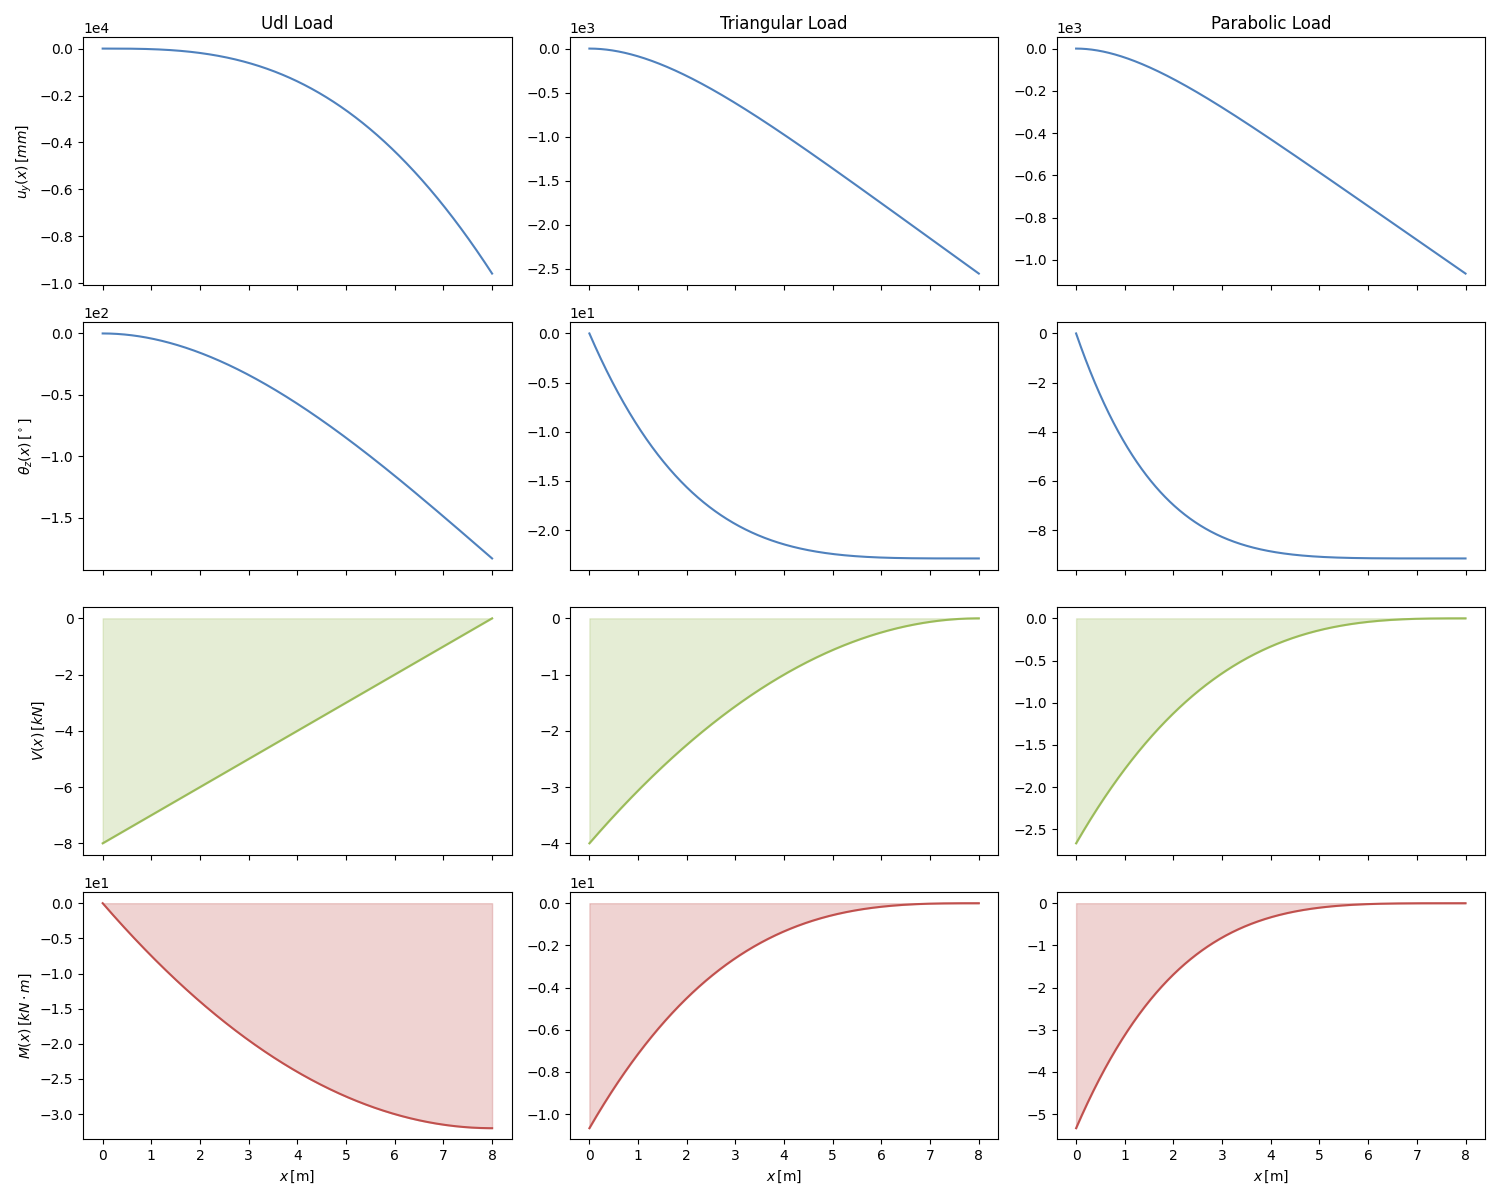
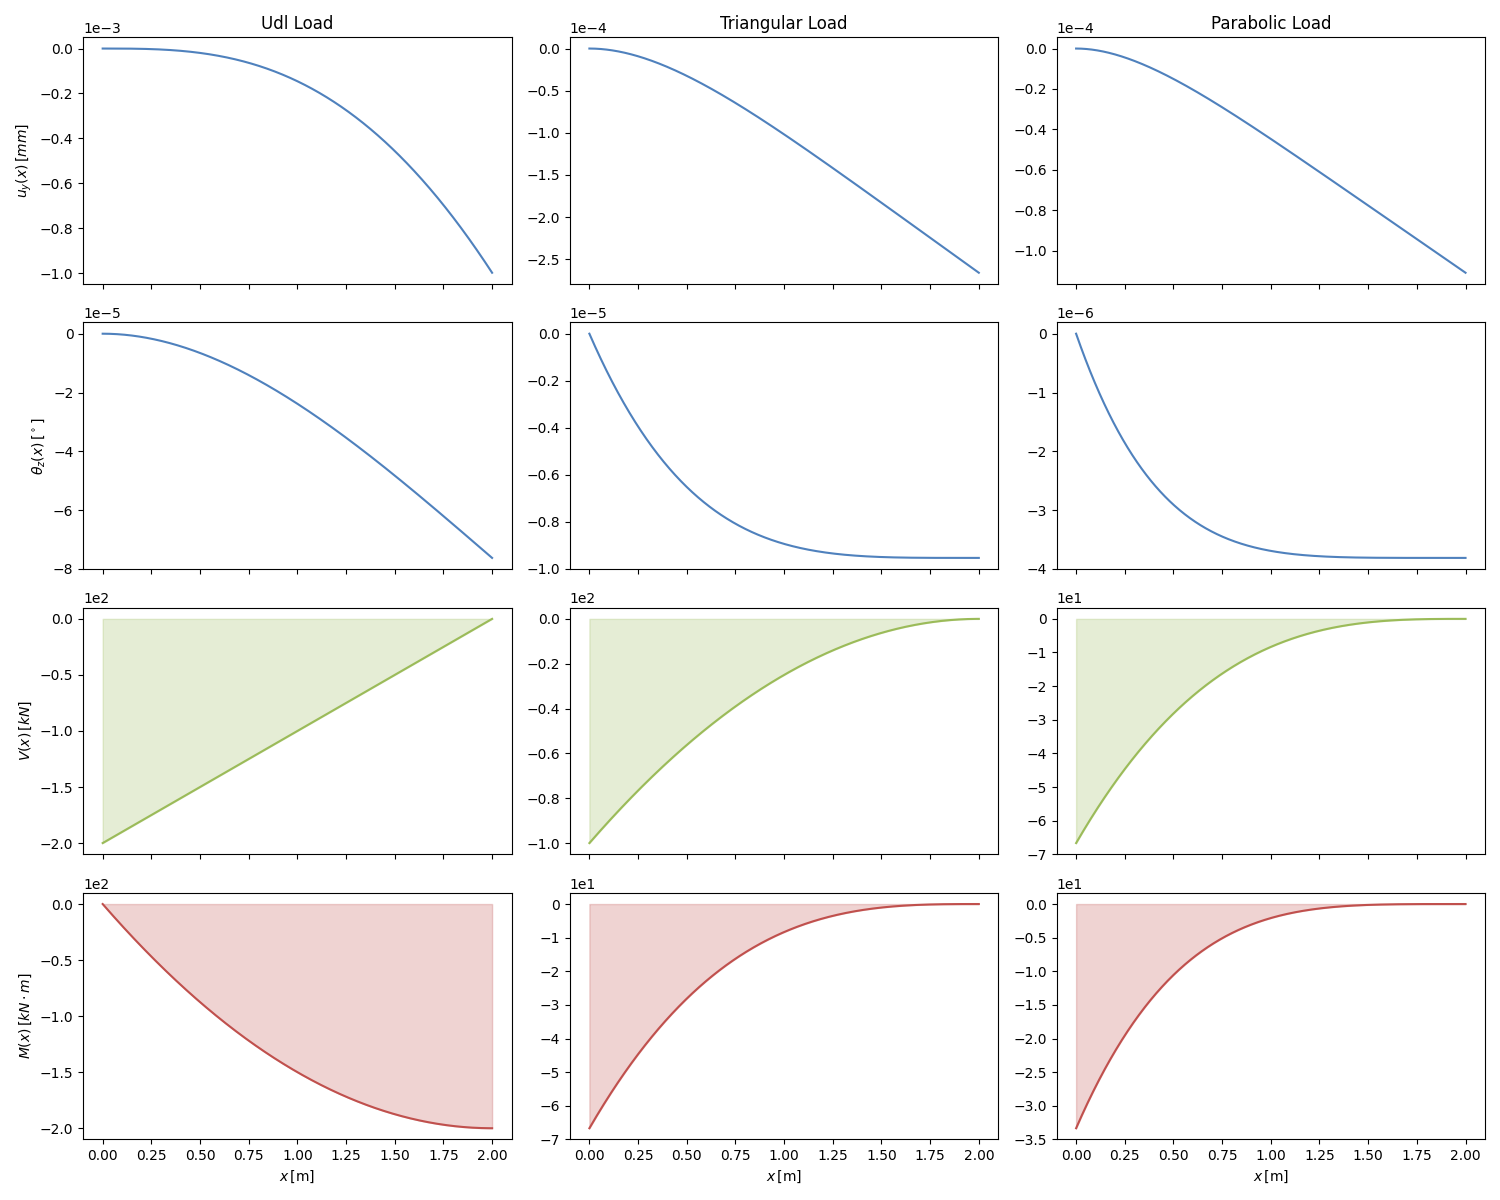
Pos-processing
Job deformation and load profile visualisers

diff --git a/post_processing/graphical_visualisers/load/load_visualisation.py b/post_processing/graphical_visualisers/load/load_visualisation.py
@@ -1,0 +1,121 @@
+# post_processing\graphical_visualisers\load\load_visualisation.py
+
+import os
+import sys
+import glob
+import re
+import numpy as np
+import matplotlib.pyplot as plt
+import datetime
+
+# Set up paths for imports
+SCRIPT_DIR = os.path.dirname(os.path.abspath(__file__))
+PROJECT_ROOT = os.path.abspath(os.path.join(SCRIPT_DIR, "../../../"))
+sys.path.append(PROJECT_ROOT)
+
+# Use your custom parsers and mesh parser
+from pre_processing.parsing.mesh_parser import parse_mesh
+from pre_processing.parsing.point_load_parser import parse_point_load
+from pre_processing.parsing.distributed_load_parser import parse_distributed_load
+
+# Set output directory for figures similar to deformation plots
+FIGURE_OUTPUT_DIR = os.path.join(SCRIPT_DIR, "load_plots")
+os.makedirs(FIGURE_OUTPUT_DIR, exist_ok=True)
+
+def plot_load_style(load_data, job_id, load_type, save_path):
+    if load_data is None or load_data.shape[1] != 9:
+        print(f"Invalid load data shape for job_{job_id}: {load_data.shape if load_data is not None else 'None'}")
+        return
+
+    x_vals = load_data[:, 0]
+    forces = load_data[:, 3:6]
+    moments = load_data[:, 6:9]
+    labels = [r"$F_x$", r"$F_y$", r"$F_z$", r"$M_x$", r"$M_y$", r"$M_z$"]
+
+    fig, axes = plt.subplots(3, 2, figsize=(15, 10), sharex=True)
+    fig.suptitle(f"{load_type.capitalize()} Load - job_{job_id}", fontsize=16, fontweight='bold')
+    color = "blue"
+
+    for i in range(3):
+        ax_f = axes[i, 0]
+        ax_m = axes[i, 1]
+
+        # Plot forces
+        if load_type == "distributed":
+            ax_f.plot(x_vals, forces[:, i], color=color, linewidth=2)
+            ax_f.fill_between(x_vals, forces[:, i], 0, color=color, alpha=0.25)
+        else:
+            # For point loads, draw vertical lines with an arrowhead marker where nonzero.
+            for x, y in zip(x_vals, forces[:, i]):
+                if y != 0:
+                    ax_f.plot([x, x], [0, y], color=color, linewidth=2)
+                    ax_f.plot(x, y, marker="v", color=color, markersize=8)
+        
+        # Plot moments
+        if load_type == "distributed":
+            ax_m.plot(x_vals, moments[:, i], color=color, linewidth=2)
+            ax_m.fill_between(x_vals, moments[:, i], 0, color=color, alpha=0.25)
+        else:
+            for x, y in zip(x_vals, moments[:, i]):
+                if y != 0:
+                    ax_m.plot([x, x], [0, y], color=color, linewidth=2)
+                    ax_m.plot(x, y, marker="v", color=color, markersize=8)
+
+        ax_f.set_ylabel(labels[i], fontsize=12)
+        ax_m.set_ylabel(labels[i + 3], fontsize=12)
+
+        ax_f.axhline(0, color='k', linestyle='--', linewidth=0.75)
+        ax_m.axhline(0, color='k', linestyle='--', linewidth=0.75)
+        ax_f.grid(True, linestyle='--', alpha=0.6)
+        ax_m.grid(True, linestyle='--', alpha=0.6)
+
+        if i == 0:
+            ax_f.set_title("Forces", fontsize=12, fontweight='bold')
+            ax_m.set_title("Moments", fontsize=12, fontweight='bold')
+
+    axes[-1, 0].set_xlabel(r"$x$ [m]", fontsize=12)
+    axes[-1, 1].set_xlabel(r"$x$ [m]", fontsize=12)
+
+    plt.tight_layout()
+    plt.subplots_adjust(top=0.9)
+    plt.savefig(save_path, dpi=300)
+    plt.close(fig)
+
+def process_all_loads():
+    jobs_dir = os.path.join(PROJECT_ROOT, "jobs")
+    job_dirs = sorted(glob.glob(os.path.join(jobs_dir, "job_*")))
+
+    for job_path in job_dirs:
+        job_id_match = re.search(r"job_(\d+)", job_path)
+        if not job_id_match:
+            continue
+        job_id = job_id_match.group(1)
+
+        mesh_path = os.path.join(job_path, "mesh.txt")
+        if not os.path.exists(mesh_path):
+            continue
+
+        mesh_dict = parse_mesh(mesh_path)
+        if 'node_coordinates' not in mesh_dict:
+            continue
+
+        # Loop over both load types with their corresponding parser functions.
+        for load_type, parser_func in {
+            "point": parse_point_load,
+            "distributed": parse_distributed_load
+        }.items():
+            load_file = os.path.join(job_path, f"{load_type}_load.txt")
+            if os.path.exists(load_file):
+                print(f"Processing {load_type} load for job_{job_id}")
+                try:
+                    load_data = parser_func(load_file)
+                    # Obtain a timestamp from the modification time of the load file
+                    timestamp = datetime.datetime.fromtimestamp(os.path.getmtime(load_file)).strftime("%Y-%m-%d_%H-%M-%S")
+                    fig_name = f"load_job_{job_id}_{timestamp}.png"
+                    fig_path = os.path.join(FIGURE_OUTPUT_DIR, fig_name)
+                    plot_load_style(load_data, job_id, load_type, fig_path)
+                except Exception as e:
+                    print(f"Failed to parse {load_type} load for job_{job_id}: {e}")
+
+if __name__ == "__main__":
+    process_all_loads()

diff --git a/post_processing/graphical_visualisers/deformation/deformation_visualisation.py b/post_processing/graphical_visualisers/deformation/deformation_visualisation.py
@@ -1,0 +1,109 @@
+# post_processing\graphical_visualisers\deformation\deformation_visualisation.py
+
+import os
+import sys
+import glob
+import re
+import numpy as np
+import matplotlib.pyplot as plt
+
+# Setup paths
+SCRIPT_DIR = os.path.dirname(os.path.abspath(__file__))
+PROJECT_ROOT = os.path.abspath(os.path.join(SCRIPT_DIR, "../../../"))
+sys.path.append(PROJECT_ROOT)
+
+from pre_processing.parsing.mesh_parser import parse_mesh
+
+FIGURE_OUTPUT_DIR = os.path.join(SCRIPT_DIR, "deformation_plots")
+os.makedirs(FIGURE_OUTPUT_DIR, exist_ok=True)
+
+def visualize_deformation(U, node_positions, scale=1.0, title_suffix="", save_path=None):
+    if U.shape[1] != 6:
+        raise ValueError("Input U must have shape (n_nodes, 6)")
+
+    fig, axes = plt.subplots(3, 2, figsize=(15, 10), sharex=True)
+    title = r"Raw $U_g (x)$"
+    if title_suffix:
+        title += f" - {title_suffix}"
+    fig.suptitle(title, fontsize=16, fontweight='bold')
+
+    color = "#4F81BD"
+    deformation_pairs = [
+        (U[:, 0] * 1000 * scale, r"$u_x(x)$ [mm]", U[:, 3], r"$\theta_x(x)$ [°]"),
+        (U[:, 1] * 1000 * scale, r"$u_y(x)$ [mm]", U[:, 5], r"$\theta_z(x)$ [°]"),
+        (U[:, 2] * 1000 * scale, r"$u_z(x)$ [mm]", U[:, 4], r"$\theta_y(x)$ [°]"),
+    ]
+
+    for i, (ax_left, ax_right, (disp, disp_label, rot, rot_label)) in enumerate(zip(axes[:, 0], axes[:, 1], deformation_pairs)):
+        # Displacement plot
+        ax_left.plot(node_positions, disp, color=color, linewidth=2, marker='o',
+                     markerfacecolor=color, markeredgecolor=color)
+        ax_left.axhline(0, color='k', linestyle='--', linewidth=0.75)
+        ax_left.grid(True, linestyle='--', alpha=0.6)
+        ax_left.set_ylabel(disp_label, fontsize=12)
+
+        # Rotation plot
+        rot_deg = np.degrees(rot) * scale
+        ax_right.plot(node_positions, rot_deg, color=color, linewidth=2, marker='o',
+                      markerfacecolor=color, markeredgecolor=color)
+        ax_right.axhline(0, color='k', linestyle='--', linewidth=0.75)
+        ax_right.grid(True, linestyle='--', alpha=0.6)
+        ax_right.set_ylabel(rot_label, fontsize=12)
+
+        if i == 0:
+            ax_left.set_title("Translation profiles", fontsize=12, fontweight='bold')
+            ax_right.set_title("Rotation profiles", fontsize=12, fontweight='bold')
+
+    axes[-1, 0].set_xlabel(r"$x$ [m]", fontsize=12)
+    axes[-1, 1].set_xlabel(r"$x$ [m]", fontsize=12)
+
+    plt.tight_layout()
+    plt.subplots_adjust(top=0.9)
+
+    if save_path:
+        plt.savefig(save_path, dpi=300)
+        plt.close(fig)
+    else:
+        plt.show()
+
+def read_deformation_file(file_path):
+    try:
+        with open(file_path, 'r') as file:
+            data = np.loadtxt(file, comments='#')
+            return data.reshape(-1, 6)
+    except Exception as e:
+        print(f"Error reading file {file_path}: {e}")
+        return None
+
+def process_deformation_files():
+    base_dir = os.path.join(PROJECT_ROOT, "post_processing", "results")
+    mesh_dir = os.path.join(PROJECT_ROOT, "jobs")
+    search_pattern = os.path.join(base_dir, "job_*_*", "primary_results", "job_*_static_global_U_global_*.txt")
+    files = sorted(glob.glob(search_pattern))
+
+    if not files:
+        print("No deformation files found.")
+        return
+
+    for file_path in files:
+        match = re.search(r"job_(\d+)_([0-9\-]+_[0-9\-]+)", file_path)
+        if not match:
+            print(f"Skipping unrecognized file format: {file_path}")
+            continue
+
+        job_id, timestamp = match.groups()
+        mesh_path = os.path.join(mesh_dir, f"job_{job_id}", "mesh.txt")
+
+        print(f"Processing: {file_path}")
+        U = read_deformation_file(file_path)
+        mesh_dictionary = parse_mesh(mesh_path)
+
+        if U is not None and mesh_dictionary is not None and 'node_coordinates' in mesh_dictionary:
+            node_positions = mesh_dictionary['node_coordinates'][:, 0]
+            title_suffix = f"job_{job_id}_{timestamp}"
+            fig_name = f"deformation_job_{job_id}_{timestamp}.png"
+            fig_path = os.path.join(FIGURE_OUTPUT_DIR, fig_name)
+            visualize_deformation(U, node_positions, scale=1.0, title_suffix=title_suffix, save_path=fig_path)
+
+if __name__ == "__main__":
+    process_deformation_files()

diff --git a/pre_processing/element_library/euler_bernoulli/utilities/B_matrix_6DOF.py b/pre_processing/element_library/euler_bernoulli/utilities/B_matrix_6DOF.py
@@ -20,7 +20,7 @@ def B_matrix(dN_dxi: np.ndarray, d2N_dxi2: np.ndarray, L: float) -> np.ndarray:
         for i in range(g):
             B = np.zeros((4, 12))
 
-            # Axial strain εₓ = duₓ/dx
+            # Axial strain ε_x = d(u_x)/dx
             B[0, 0] = dN_dxi[i, 0, 0] 
             B[0, 6] = dN_dxi[i, 6, 0]
 
@@ -40,7 +40,7 @@ def B_matrix(dN_dxi: np.ndarray, d2N_dxi2: np.ndarray, L: float) -> np.ndarray:
                 d2N_dxi2[i, 10, 4]   # θ_y node 2
             ]
 
-            # Torsional strain γₓ = dθₓ/dx
+            # Torsional strain γ_x = d(θ_x)/dx
             B[3, 3] = dN_dxi[i, 3, 3]
             B[3, 9] = dN_dxi[i, 9, 3]
 

diff --git a/post_processing/validation_visualisers/deflection_tables/roarks_formulas/roarks_formulas_visualiser.py b/post_processing/validation_visualisers/deflection_tables/roarks_formulas/roarks_formulas_visualiser.py
@@ -277,15 +277,15 @@ def main():
     using normal `plot()` calls for the point-load spike (no `stem()`).
     """
     # Beam parameters
-    L = 8.0           # [m]
+    L = 2             # [m]
     E = 2.0e11        # [Pa]
-    I = 2.67e-7       # [m^4]
+    I = 1.002e+0      # [m^4]
 
     # Point load [N]
-    P = 1000.0
+    P = 100000.0
 
     # Distributed load [N/m]
-    w = 1000.0
+    w = 100000.0
 
     plot_load_intensities(L, E, I, P, w)
 
